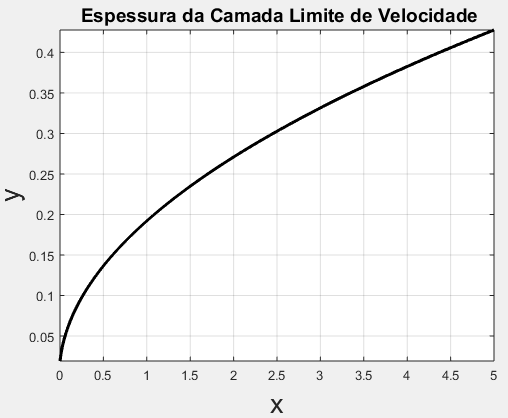
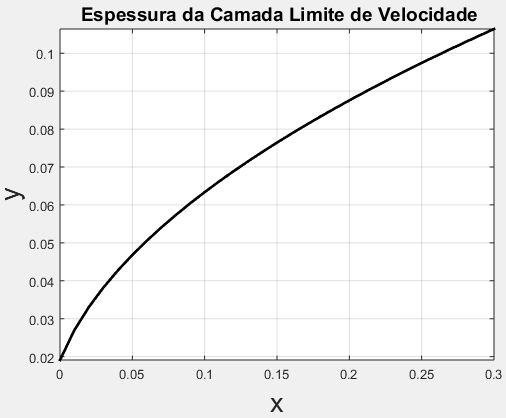
correção

diff --git a/falcao_peregrino.m b/falcao_peregrino.m
@@ -12,7 +12,7 @@ mu_inf = 1.789E-5;
 rho_inf = 1.225;
 
 h = 0.01;
-x = 0:h:5;
+x = 0:h:0.3;
 
 %% Espessura da Camada Limite de Velocidade
 for i = 1 : length(x)
